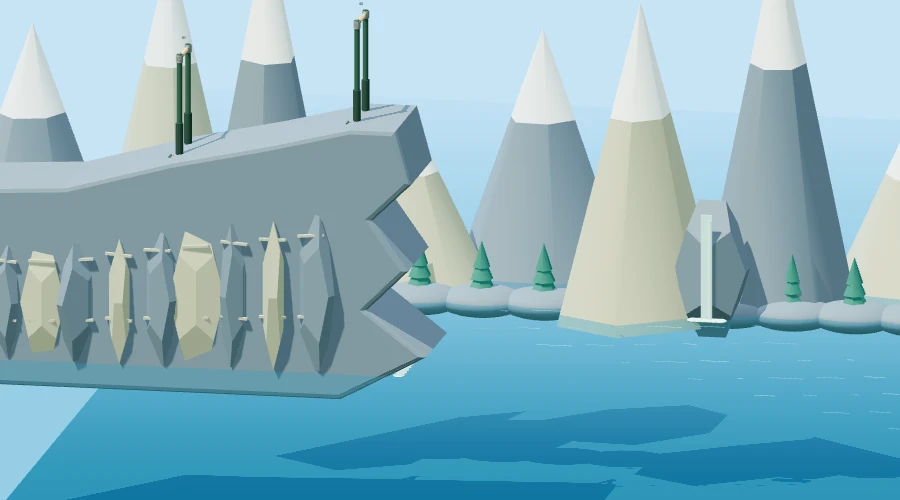
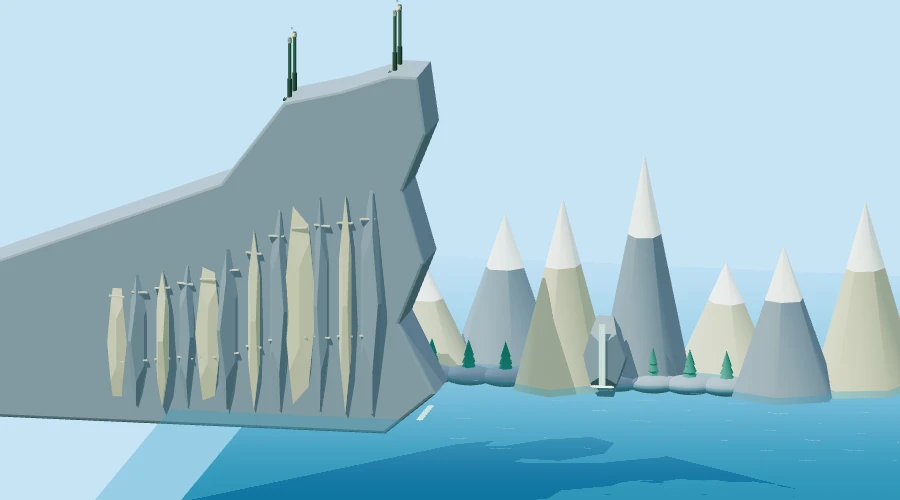
Add foot grab and spring landings with towering cliff courses and wider cameras

diff --git a/physics.js b/physics.js
@@ -2,10 +2,10 @@
 const KAARI_MAPS = [
   {id:'garden',name:'Park Practice',description:'Easy · 5 bars · find your rhythm',points:[[180,220],[380,210],[590,225],[810,195],[1040,210]],landing:240,colors:['#e7ecdf','#dbe3d2','#dee6d4','#d1ddc6','#809273']},
   {id:'coast',mode:'dive',shore:490,terrain:[[-900,70],[0,90],[180,120],[420,155],[490,155]],name:'Turquoise Bay',description:'Water jump · 2 bars · trick and splash',points:[[180,80],[420,65]],landing:1100,colors:['#e2edf0','#d1e0e4','#c8dde2','#c2d5d4','#6d919d']},
-  {id:'sunset',mode:'dive',shore:540,terrain:[[-900,180],[0,205],[180,230],[330,275],[465,290],[540,290]],name:'Golden Cliffs',description:'Water jump · 2 bars · trick and splash',points:[[180,60],[465,40]],landing:1100,colors:['#f2e7df','#e8d7ca','#e5cdb9','#d9c4ae','#ab836e']},
+  {id:'sunset',mode:'dive',shore:540,terrain:[[-900,260],[0,430],[180,580],[330,615],[465,650],[540,650]],name:'Golden Cliffs',description:'Water jump · 2 bars · trick and splash',points:[[180,60],[465,40]],landing:1600,colors:['#f2e7df','#e8d7ca','#e5cdb9','#d9c4ae','#ab836e']},
   {id:'city',name:'Rooftop Run',description:'Medium · 7 bars · above the skyline',points:[[180,210],[410,190],[655,215],[915,180],[1190,205],[1450,185],[1715,210]],landing:280,colors:['#aaa9db','#c4bfe5','#8298ba','#87819d','#535774']},
   {id:'harbor',mode:'dive',shore:525,terrain:[[-900,50],[0,65],[180,95],[310,70],[450,120],[525,120]],name:'Island Hopping',description:'Water jump · 2 bars · trick and splash',points:[[180,80],[450,95]],landing:1100,colors:['#a9d6de','#c8e5e5','#6c9baa','#93aeb2','#536d79']},
-  {id:'alpine',mode:'dive',shore:550,terrain:[[-900,240],[0,290],[180,340],[340,375],[480,410],[550,410]],name:'Alpine Lake',description:'Water jump · 2 bars · trick and splash',points:[[180,50],[480,35]],landing:1100,colors:['#c7e3f6','#e1edf6','#b8d3e3','#e6edf0','#8195ac']}
+  {id:'alpine',mode:'dive',shore:550,terrain:[[-900,300],[0,650],[180,890],[340,930],[480,980],[550,980]],name:'Alpine Lake',description:'Water jump · 2 bars · trick and splash',points:[[180,50],[480,35]],landing:1900,colors:['#c7e3f6','#e1edf6','#b8d3e3','#e6edf0','#8195ac']}
 ];
 const K_TAU=Math.PI*2,K_G=720,K_FLOOR=475;
 const clamp=(n,min,max)=>Math.max(min,Math.min(max,n));
@@ -27,7 +27,7 @@ class GymnastRagdoll {
     this.joints={};this.reset(p);
   }
   pose(p,bar=null){
-    const t=p.tuck,s=Math.sin(p.angle),c=Math.cos(p.angle);
+    const t=Math.max(p.tuck,p.landingCompression||0),s=Math.sin(p.angle),c=Math.cos(p.angle);
     // Both thighs flex toward the chest in body space. The shins fold back
     // toward the hips; neither leg mirrors to the other side of the body.
     const special=!bar?p.specialPose:null;
@@ -43,6 +43,17 @@ class GymnastRagdoll {
     const side=bar?(dy<=0?1:-1):-1;
     const elbow=[dx/2-dy/d*bend*side,-21+dy/2+dx/d*bend*side];
     const local={hip:[0,4],chest:[0,-21],head:[0,-38],elbowL:elbow,elbowR:[...elbow],handL:hand,handR:[...hand],kneeL:knee,kneeR:[...knee],footL:foot,footR:[...foot]};
+    if(special==='grab'){
+      local.kneeR=[24,-3];local.footR=[4,12];local.handR=[4,12];
+      const dx=4,dy=33,d=Math.hypot(dx,dy),bend=Math.sqrt(23*23-d*d/4);
+      local.elbowR=[dx/2+dy/d*bend,-21+dy/2-dx/d*bend];
+      local.handL=[-30,-30];local.elbowL=[-18,-37];
+    }
+    if(p.onGround){
+      // Reach forward to counter the hip moving back during impact compression.
+      local.handL=[-26,-24];local.elbowL=[-18,-35];
+      local.handR=[30,-23];local.elbowR=[20,-33];
+    }
     if(special==='star'){
       local.handL=[-39,-40];local.elbowL=[-20,-32];local.elbowR=[20,-32];
       local.kneeL=[-15,24];local.kneeR=[15,24];local.footL=[-30,44];local.footR=[30,44];
@@ -85,7 +96,7 @@ class GymnastRagdoll {
         for(const id of ['elbowL','elbowR','handL','handR']){const q=this.joints[id];q.x+=(target[id].x-q.x)*.22;q.y+=(target[id].y-q.y)*.22;}
         // The arms share one bend in the movement plane; depth separates them
         // visually. Do not constrain the free ragdoll after a fall.
-        if(p.specialPose!=='star'||bar)for(const name of ['elbow','hand']){const a=this.joints[name+'L'],b=this.joints[name+'R'];a.x=b.x=(a.x+b.x)/2;a.y=b.y=(a.y+b.y)/2;}
+        if((!['star','grab'].includes(p.specialPose)&&!p.onGround)||bar)for(const name of ['elbow','hand']){const a=this.joints[name+'L'],b=this.joints[name+'R'];a.x=b.x=(a.x+b.x)/2;a.y=b.y=(a.y+b.y)/2;}
         if(bar)for(const id of ['handL','handR']){this.joints[id].x=bar.x;this.joints[id].y=bar.y;}
       }
       for(const q of Object.values(this.joints))if(q.y>floor-4){q.y=floor-4;q.px=q.x-(q.x-q.px)*.7;q.py=q.y;}
@@ -103,11 +114,18 @@ class KaariPhysics {
     const b=this.bars[0],angle=-.85;
     this.player={x:b.x+Math.sin(angle)*76,y:b.y+Math.cos(angle)*76,vx:0,vy:0,angle,omega:0,radius:76,tuck:0,bar:0,cooldown:0,momentum:0,twist:0,twistSpeed:0};
     this.ragdoll=new GymnastRagdoll(this.player);this.visited=new Set([0]);this.score=0;this.chain=0;this.maxChain=0;this.flightPoints=0;this.airRotation=0;this.turns=0;this.twistTurns=0;this.comboAwarded=false;this.events=[];this.ended=false;this.success=false;this.active=false;this.elapsedAfterEnd=0;this.crash=null;
-    this.grounded=false;this.groundCharge=0;this.groundHeld=false;this.specialTime=0;this.specialAwarded=false;this.airTime=0;this.layoutRotation=0;this.layoutAwarded=false;this.rewardClaimed=false;this.deathDiveUnlocked=false;this.diveTime=0;this.diveAwarded=false;this.sinceDive=99;this.bombActive=false;
+    this.grabTime=0;this.grabAwarded=false;this.landingVelocity=0;this.grounded=false;this.groundCharge=0;this.groundHeld=false;this.specialTime=0;this.specialAwarded=false;this.airTime=0;this.layoutRotation=0;this.layoutAwarded=false;this.rewardClaimed=false;this.deathDiveUnlocked=false;this.diveTime=0;this.diveAwarded=false;this.sinceDive=99;this.bombActive=false;
   }
   beginFlight(){
+    this.grabTime=0;this.grabAwarded=false;this.player.onGround=false;this.player.landingCompression=0;
     this.flightPoints=0;this.airRotation=0;this.turns=0;this.twistTurns=0;this.comboAwarded=false;
     this.specialTime=0;this.specialAwarded=false;this.airTime=0;this.layoutRotation=0;this.layoutAwarded=false;this.player.specialPose=null;this.diveTime=0;this.diveAwarded=false;this.sinceDive=99;this.bombActive=false;this.player.twist=0;this.player.twistSpeed=0;
+  }
+  startLanding(){
+    const p=this.player;this.grounded=true;this.groundCharge=0;this.groundHeld=false;
+    this.landingVelocity=clamp(Math.abs(p.vy)/180,1,6);p.landingCompression=.04;p.onGround=true;
+    p.specialPose=null;p.twist=0;p.twistSpeed=0;p.momentum=0;p.tuck=0;p.vx=clamp(p.vx*.3,-95,95);
+    p.angle=clamp(Math.atan2(Math.sin(p.angle),Math.cos(p.angle)),-.5,.5);p.omega=clamp(p.omega,-2,2);p.vy=0;
   }
   stepGround(dt,input){
     const p=this.player,surface=this.groundY(p.x);
@@ -118,11 +136,14 @@ class KaariPhysics {
       if(quick){
         this.grounded=false;this.beginFlight();p.angle=0;p.momentum=0;p.vy=-530*this.character.bounce;p.cooldown=.12;
         const target=this.bars.find((_,i)=>!this.visited.has(i))||{x:this.mat.x+80,y:surface-65};
-        p.vx=clamp((target.x-p.x)/.9,-240,240);p.y-=5;
+        p.vx=clamp((target.x-p.x)/.9,-240,240);p.y=surface-10-this.ragdoll.pose({...p,y:0}).footR.y;this.ragdoll.reset(p);
         this.events.push({type:'bounce',label:'BOUNCE!',x:p.x,y:p.y});return;
       }
     }
-    p.angle=0;p.omega=0;p.vx=0;p.vy=0;p.specialPose=null;
+    this.landingVelocity+=(-70*(p.landingCompression||0)-12*this.landingVelocity)*dt;
+    p.landingCompression=clamp((p.landingCompression||0)+this.landingVelocity*dt,0,.7);
+    p.omega+=(-42*p.angle-10*p.omega)*dt;p.angle+=p.omega*dt;
+    p.x+=p.vx*dt;p.vx*=Math.exp(-9*dt);p.vy=0;p.specialPose=null;p.onGround=true;
     const footY=this.ragdoll.pose({...p,y:0}).footR.y;p.y=surface-5-footY;
     this.ragdoll.step(dt,p,null,surface);
   }
@@ -157,7 +178,7 @@ class KaariPhysics {
       const strength=clamp((.45+impactSpeed/700)*Math.sqrt(mass/75)*(bombEntry?1.25:1),.45,2.8);
       this.splash={x:p.x,clean,duration:2.6,impactSpeed,mass,strength,kind:bombEntry?'bomb':diveEntry?'deathdive':'normal',points:success?500+bonus:0};if(success)this.score+=500+bonus;
       p.vy=Math.max(90,p.vy*.65);p.vx*=.5;
-    }else if(success){this.score+=500;this.player.vx=0;this.player.vy=0;this.player.twist=0;this.player.twistSpeed=0;this.player.angle=0;this.player.tuck=0;this.player.y=K_FLOOR-56;this.ragdoll.reset(this.player);}else{
+    }else if(success){this.score+=500;this.startLanding();}else{
       const p=this.player;
       const kind=p.tuck>.55||Math.abs(p.omega)>7?'roll':Math.cos(p.angle)<-.45?'head':Math.sin(p.angle)<-.55?'belly':Math.sin(p.angle)>.55?'back':'sit';
       const captions={head:['HEAD FIRST!','Brain temporarily disconnected.','BONK!'],belly:['BELLY FLOP!','Full marks for surface area.','SPLAT!'],back:['BACK BOUNCE!','Returned to sender.','BOING!'],roll:['SPIN CYCLE!','One more spin, please.','WHIRR!'],sit:['BUTT FIRST!','Found a seat.','THUMP!']};
@@ -175,6 +196,7 @@ class KaariPhysics {
         p.x+=p.vx*dt;p.y+=p.vy*dt;p.angle+=p.momentum*.15*dt;p.momentum*=Math.exp(-3*dt);
         p.tuck*=Math.exp(-1.2*dt);p.specialPose=null;this.ragdoll.reset(p);return;
       }
+      if(this.success&&this.grounded){this.stepGround(dt,{});return;}
       if(this.crash&&!this.crash.kicked&&this.elapsedAfterEnd>.32){this.ragdoll.kick(this.crash.kind,this.crash.direction);this.crash.kicked=true;}
       this.ragdoll.step(dt,p,null,this.groundY(p.x));
       if(this.crash){p.x=this.ragdoll.joints.hip.x;p.y=this.ragdoll.joints.hip.y;p.vx=0;p.vy=0;}
@@ -183,9 +205,10 @@ class KaariPhysics {
     if(!this.active){if(input.grip||input.tuck)this.active=true;else return;}
     const airborne=p.bar<0&&!this.grounded;
     const bomb=airborne&&this.characterId==='bruno'&&!!input.bomb;
+    const grab=airborne&&!!input.grab&&!input.bomb&&!input.dive;
     const dive=airborne&&this.water&&this.deathDiveUnlocked&&!!input.dive&&!bomb;
     this.bombActive=bomb;this.sinceDive=dive?0:this.sinceDive+dt;
-    input={...input,tuck:bomb||(!dive&&!!input.tuck),special:!dive&&(bomb||input.special)};
+    input={...input,tuck:bomb||(!dive&&!!input.tuck),special:!dive&&!grab&&(bomb||input.special)};
     const oldRadius=p.radius;p.tuck+=(Number(!!input.tuck)-p.tuck)*Math.min(1,dt*10);p.radius=76-26*p.tuck;p.cooldown-=dt;
     if(this.grounded){this.stepGround(dt,input);return;}
     if(p.bar>=0){
@@ -223,7 +246,7 @@ class KaariPhysics {
       if(this.turns>0&&this.twistTurns>0&&!this.comboAwarded){this.comboAwarded=true;this.flightPoints+=150;this.score+=150;this.events.push({type:'combo',label:`${this.airRotation>0?'BACKFLIP':'FRONTFLIP'} ${this.twistTurns*360}°`,x:p.x,y:p.y-25});}
       this.airTime+=dt;
       const ability=this.character,canPose=input.special&&(ability.special==='cannon'?p.tuck>.65:ability.special==='corkscrew'||p.tuck<.35);
-      p.specialPose=dive?'deathdive':canPose?ability.special:null;
+      p.specialPose=grab?'grab':dive?'deathdive':canPose?ability.special:null;
       const clearOfGround=p.y<(overGround?groundSurface:K_FLOOR)-95;
       this.specialTime=canPose&&clearOfGround?this.specialTime+dt:0;
       const ready=ability.special==='corkscrew'?this.turns>0&&this.twistTurns>0&&!!twistInput:this.specialTime>=.4;
@@ -231,6 +254,8 @@ class KaariPhysics {
         this.specialAwarded=true;this.score+=ability.specialPoints;this.flightPoints+=ability.specialPoints;
         this.events.push({type:'special',label:ability.ability.toUpperCase(),points:ability.specialPoints,x:p.x,y:p.y});
       }
+      this.grabTime=grab&&clearOfGround?this.grabTime+dt:0;
+      if(this.grabTime>=.35&&!this.grabAwarded){this.grabAwarded=true;this.score+=150;this.flightPoints+=150;this.events.push({type:'special',label:'GRAB',points:150,x:p.x,y:p.y});}
       this.diveTime=dive&&clearOfGround?this.diveTime+dt:0;
       if(this.diveTime>=.35&&!this.diveAwarded){this.diveAwarded=true;this.score+=250;this.flightPoints+=250;this.events.push({type:'special',label:'DEATH DIVE',points:250,x:p.x,y:p.y});}
       if(input.grip&&p.cooldown<=0){
@@ -245,7 +270,7 @@ class KaariPhysics {
         }
       }
     }
-    const surface=this.water&&p.x<this.mat.x?this.cliffY:K_FLOOR;
+    const surface=this.groundY(p.x);
     this.ragdoll.step(dt,p,p.bar>=0?this.bars[p.bar]:null,surface);
     if(p.bar<0){
       const joints=this.ragdoll.joints,touching=Object.entries(joints).filter(([,q])=>q.y>=surface-4.1);
@@ -257,11 +282,10 @@ class KaariPhysics {
         const feetFirst=touching.every(([id])=>id.startsWith('foot')||id.startsWith('knee'))&&Math.cos(p.angle)>.25&&Math.abs(p.omega)<12&&p.tuck<.8;
         if(feetFirst&&onMat&&this.visited.size===this.bars.length)this.finish(true);
         else if(feetFirst){
-          this.settleCombo(false);this.grounded=true;this.groundCharge=0;this.groundHeld=false;p.specialPose=null;p.twist=0;p.twistSpeed=0;p.angle=0;p.tuck=0;p.y=surface-56;
-          this.ragdoll.reset(p);this.events.push({type:'ground',label:'TUCK → RELEASE',x:p.x,y:p.y});
+          this.settleCombo(false);this.startLanding();this.events.push({type:'ground',label:'TUCK → RELEASE',x:p.x,y:p.y});
         }else this.finish(false);
       }
-      if(p.y>K_FLOOR+80||p.y<-1200||p.x<-180||p.x>this.mat.x+this.mat.w+200)this.finish(false);
+      if(p.y>K_FLOOR+80||p.y<-2200||p.x<-180||p.x>this.mat.x+this.mat.w+200)this.finish(false);
     }
   }
 }

diff --git a/index.html b/index.html
@@ -20,7 +20,7 @@
       <button id="play" class="primary">PLAY <span>↗</span></button>
       <button id="guide-open" class="guide-button">TRICK BOOK</button>
       <button id="help-toggle" class="text-button" aria-expanded="false">How to play <span>＋</span></button>
-      <div id="help" hidden><div class="keyboard-help"><p><kbd>SPACE</kbd> Hold to grip · release to jump</p><p><kbd>↓ / S</kbd> Hold to tuck · release to straighten</p><p><kbd>← / →</kbd> Twist in the air (also A / D)</p><p><kbd>E</kbd> Signature trick <kbd>B</kbd> Bruno bomb <kbd>F</kbd> Death dive (unlock in chapter 2)</p><p><kbd>ESC</kbd> Pause <kbd>R</kbd> Retry</p></div><div class="touch-help"><p><b>Right thumb: GRIP</b><br>Hold to catch a bar. Release to jump.</p><p><b>Left thumb: TUCK</b><br>Hold to curl up. Release to straighten.</p><p><b>↶ / ↷</b> Hold to twist in the air. Combine with a flip!</p><p><b>TRICK</b> Hold your signature trick. Check your character's instructions.</p><p>Use several buttons together. Landscape works too.</p></div><p>Water jumps: visit both bars, trick, then land in the water. A straight entry adds 200 points.</p><p>Trick + new bar = COMBO! Chain trick jumps for up to ×6 points. A plain jump or an old bar breaks the chain.</p><p>Tuck at the bottom of the swing; extend near the top.</p><p>Land on your feet to recover: tap TUCK for less than 0.6 s, then release to bounce. Hold GRIP to catch the next bar.</p><p>Finish the course and meet its score target to unlock the next chapter. Coins and purchases are saved in this browser.</p></div>
+      <div id="help" hidden><div class="keyboard-help"><p><kbd>SPACE</kbd> Hold to grip · release to jump</p><p><kbd>↓ / S</kbd> Hold to tuck · release to straighten</p><p><kbd>← / →</kbd> Twist in the air (also A / D)</p><p><kbd>↑</kbd> Grab one foot <kbd>E</kbd> Signature trick <kbd>B</kbd> Bruno bomb <kbd>F</kbd> Death dive (unlock in chapter 2)</p><p><kbd>ESC</kbd> Pause <kbd>R</kbd> Retry</p></div><div class="touch-help"><p><b>Right thumb: GRIP</b><br>Hold to catch a bar. Release to jump.</p><p><b>Left thumb: TUCK</b><br>Hold to curl up. Release to straighten.</p><p><b>↶ / ↷</b> Hold to twist in the air. Combine with a flip!</p><p><b>TRICK</b> Hold your signature trick. Check your character's instructions.</p><p>Use several buttons together. Landscape works too.</p></div><p>Water jumps: visit both bars, trick, then land in the water. A straight entry adds 200 points.</p><p>Trick + new bar = COMBO! Chain trick jumps for up to ×6 points. A plain jump or an old bar breaks the chain.</p><p>Tuck at the bottom of the swing; extend near the top.</p><p>Land on your feet to recover: tap TUCK for less than 0.6 s, then release to bounce. Hold GRIP to catch the next bar.</p><p>Finish the course and meet its score target to unlock the next chapter. Coins and purchases are saved in this browser.</p></div>
     </div>
     <div class="map-picker"><div class="map-heading"><span>STORY <span id="map-counter">01 / 06</span></span><span id="menu-best">BEST 0</span></div>
       <div class="chapter-brief"><strong id="chapter-title"></strong><span id="chapter-goal"></span><p id="chapter-story"></p></div>
@@ -32,7 +32,7 @@
 
   </section>
   <div id="hud" hidden><div class="hud-score"><strong id="score">0</strong><span id="progress">1 / 5</span><small id="hud-goal"></small></div><div class="hud-actions"><button id="restart" class="icon" aria-label="Retry" title="Retry (R)">↻</button><button id="pause-button" class="icon" aria-label="Pause" title="Pause (Esc)">Ⅱ</button></div><div id="start-hint"><kbd>SPACE</kbd> grip <span>·</span> <kbd>↓</kbd> tuck</div></div>
-  <div class="touch" id="touch" hidden aria-label="Touch controls"><button data-key="ArrowDown" aria-label="Hold to tuck, release to straighten" aria-pressed="false"><span class="control-symbol" aria-hidden="true">↓</span><strong>TUCK</strong><small>Release: straighten</small></button><div class="twist-controls"><button data-key="ArrowLeft" aria-label="Twist left in the air" aria-pressed="false">↶</button><button data-key="ArrowRight" aria-label="Twist right in the air" aria-pressed="false">↷</button><small>TWIST</small><button data-key="KeyB" class="bomb-control" aria-label="Hold cannonball bomb" aria-pressed="false" hidden>BOMB</button><button data-key="KeyF" class="dive-control" aria-label="Hold death dive" aria-pressed="false" hidden>DIVE</button><button data-key="KeyE" class="special-control" aria-label="Hold your signature trick" aria-pressed="false">TRICK</button></div><button data-key="Space" aria-label="Hold to grip, release to jump" aria-pressed="false"><span class="control-symbol" aria-hidden="true">✊</span><strong>GRIP</strong><small>Release: jump</small></button></div>
+  <div class="touch" id="touch" hidden aria-label="Touch controls"><button data-key="ArrowDown" aria-label="Hold to tuck, release to straighten" aria-pressed="false"><span class="control-symbol" aria-hidden="true">↓</span><strong>TUCK</strong><small>Release: straighten</small></button><div class="twist-controls"><button data-key="ArrowLeft" aria-label="Twist left in the air" aria-pressed="false">↶</button><button data-key="ArrowRight" aria-label="Twist right in the air" aria-pressed="false">↷</button><small>TWIST</small><button data-key="KeyB" class="bomb-control" aria-label="Hold cannonball bomb" aria-pressed="false" hidden>BOMB</button><button data-key="KeyF" class="dive-control" aria-label="Hold death dive" aria-pressed="false" hidden>DIVE</button><button data-key="ArrowUp" class="grab-control" aria-label="Hold to grab one foot" aria-pressed="false">GRAB</button><button data-key="KeyE" class="special-control" aria-label="Hold your signature trick" aria-pressed="false">TRICK</button></div><button data-key="Space" aria-label="Hold to grip, release to jump" aria-pressed="false"><span class="control-symbol" aria-hidden="true">✊</span><strong>GRIP</strong><small>Release: jump</small></button></div>
   <section id="pause" class="dialog-screen" hidden><div class="dialog"><span class="pill">TAKE A BREATHER</span><h2>PAUSED.</h2><button id="resume" class="primary">RESUME <span>→</span></button><button id="pause-restart" class="secondary">Retry</button><button class="text-button" data-menu>Main menu</button></div></section>
   <section id="result" class="dialog-screen" hidden><div class="dialog"><span class="pill" id="result-label"></span><h2 id="result-title"></h2><div class="result-points" id="result-score"></div><p id="result-copy"></p><div id="result-reward"></div><p id="result-unlock"></p><button id="next-chapter" class="primary" hidden>NEXT CHAPTER →</button><button id="again" class="primary">TRY AGAIN <span>↗</span></button><button class="text-button" data-menu>Main menu</button></div></section>
 <section id="guide" class="guide-screen" hidden aria-label="Trick book"><div class="guide-shell"><header><div><small id="guide-kicker">FIELD NOTES</small><h2 id="guide-title">Trick book</h2></div><button id="guide-close" class="icon" aria-label="Close trick book">×</button></header><div class="guide-layout"><nav id="trick-list" aria-label="Tricks"></nav><article class="trick-page"><div class="trick-top"><span id="trick-state"></span><span id="trick-points"></span></div><h3 id="trick-name"></h3><p id="trick-owners"></p><canvas id="trick-demo" width="520" height="230" aria-label="Animated trick example"></canvas><div id="demo-cue" aria-live="off"></div><div id="trick-keys"></div><p id="trick-how"></p><p id="trick-unlock"></p><div class="guide-actions"><button id="demo-replay" class="secondary">REPLAY EXAMPLE</button><button id="tutorial-next" class="primary" hidden>GOT IT →</button></div></article></div></div></section>

diff --git a/game.js b/game.js
@@ -40,23 +40,27 @@ function readBest(){best=campaign.data.records[game.mapIndex]?.best||0;}
 function baseSpan(){return touchMode?(height>width?460:360):480;}
 function floorMargin(span){return touchMode?(height>width?155:115)*span/height:70;}
 function followMobilePlayer(dt=0,snap=false){
-  const p=game.player,span=baseSpan(),view=width/height*span;
+  const p=game.player;
+  const highCliff=game.water&&terrainHeight(game.map,game.mat.x)>400&&!game.splash;
+  const altitude=Math.max(0,K_FLOOR-p.y);
+  const desiredSpan=highCliff?Math.max(baseSpan(),(altitude+180)/(1-Math.min(.34,155/height))):baseSpan();
+  const span=snap?desiredSpan:cameraSpan+(desiredSpan-cameraSpan)*(1-Math.exp(-5*dt)),view=width/height*span;
   const flying=p.bar<0&&!game.ended;
   const leadX=flying?clamp(p.vx*.035,-12,12):0;
   const leadY=flying?clamp(-p.vy*.025,-12,12):0;
   // Keep the body near the centre of the usable view, above the thumb controls.
-  // Unlike the desktop camera, do not zoom out to include the floor or map edges.
-  const targetX=p.x+leadX-view/2,targetY=K_FLOOR-p.y+leadY-span*.065;
+  // Tall cliffs widen the view to show both the launch point and the water.
+  const targetX=(highCliff?(p.x+Math.max(p.x,game.mat.x+75))/2:p.x+leadX)-view/2,targetY=highCliff?span/2-155*span/height:K_FLOOR-p.y+leadY-span*.065;
   const blend=snap?1:1-Math.exp(-16*dt);
   cameraSpan=span;camera+=(targetX-camera)*blend;cameraY+=(targetY-cameraY)*blend;
   // Bound tracking lag on fast launches, even on a narrow portrait screen.
-  camera=clamp(camera,p.x-view*.59,p.x-view*.41);
-  cameraY=clamp(cameraY,K_FLOOR-p.y-span*.14,K_FLOOR-p.y+span*.015);
+  if(!highCliff)camera=clamp(camera,p.x-view*.59,p.x-view*.41);
+  if(!highCliff)cameraY=clamp(cameraY,K_FLOOR-p.y-span*.14,K_FLOOR-p.y+span*.015);
 }
 function resize(){const r=canvas.getBoundingClientRect();width=r.width;height=r.height;scale=height/480;graphics.resize();if(touchMode&&screen!=='menu')followMobilePlayer(0,true);}
 new ResizeObserver(resize).observe(canvas);
 function held(code){return keys.has(code)||touchKeys.has(code);}
-function controls(){return{bomb:held('KeyB')&&game.characterId==='bruno',dive:held('KeyF')&&campaign.trickUnlocked('deathdive'),special:held('KeyE'),grip:held('Space'),tuck:held('ArrowDown')||held('KeyS'),twist:Number(held('ArrowRight')||held('KeyD'))-Number(held('ArrowLeft')||held('KeyA'))};}
+function controls(){return{grab:held('ArrowUp'),bomb:held('KeyB')&&game.characterId==='bruno',dive:held('KeyF')&&campaign.trickUnlocked('deathdive'),special:held('KeyE'),grip:held('Space'),tuck:held('ArrowDown')||held('KeyS'),twist:Number(held('ArrowRight')||held('KeyD'))-Number(held('ArrowLeft')||held('KeyA'))};}
 function clearInput(){if(game.grounded){game.groundHeld=false;game.groundCharge=0;}keys.clear();touchKeys.clear();touchPointers.clear();document.querySelectorAll('[data-key]').forEach(b=>{b.classList.remove('pressed');b.setAttribute('aria-pressed','false');});}
 function setScreen(next){
   screen=next;document.body.dataset.screen=next;clearInput();

diff --git a/physics.test.js b/physics.test.js
@@ -275,3 +275,19 @@ test('water impact scales with speed and mass and preserves visible underwater m
  assert.ok(high.splash.strength>low.splash.strength);assert.ok(heavy.splash.strength>high.splash.strength);assert.ok(light.splash.strength<high.splash.strength);
  for(const g of [low,high,heavy,light]){const y=g.player.y,score=g.score;for(let i=0;i<240;i++)g.step(dt,{bomb:true,twist:1});assert.ok(g.player.y>y);assert.ok(g.player.y>K_FLOOR);assert.ok(g.player.y<K_FLOOR+250);assert.equal(g.score,score);for(const j of Object.values(g.ragdoll.joints))assert.ok(Number.isFinite(j.x+j.y));g.reset();assert.equal(g.splash,null);}
 });
+
+test('grab holds one foot, keeps the other hand free, and awards once per flight',()=>{
+ const g=new KaariPhysics();g.active=true;Object.assign(g.player,{bar:-1,x:600,y:-400,vx:0,vy:-100,angle:0,momentum:0});g.ragdoll.reset(g.player);
+ for(let i=0;i<65;i++)g.step(dt,{grab:true});assert.equal(g.grabAwarded,true);assert.equal(g.player.specialPose,'grab');
+ const j=g.ragdoll.joints;assert.ok(Math.hypot(j.handR.x-j.footR.x,j.handR.y-j.footR.y)<12);assert.ok(Math.hypot(j.handL.x-j.footR.x,j.handL.y-j.footR.y)>25);
+ assert.equal(g.events.filter(e=>e.label==='GRAB').length,1);g.step(dt,{});assert.equal(g.player.specialPose,null);
+ g.reset();g.active=true;for(let i=0;i<60;i++)g.step(dt,{grip:true,grab:true});assert.equal(g.grabAwarded,false);assert.equal(g.score,0);
+});
+test('feet-first impact compresses the knees, settles and preserves recovery bounce',()=>{
+ for(const success of [false,true]){
+ const g=new KaariPhysics();g.active=true;Object.assign(g.player,{bar:-1,x:success?g.mat.x+100:300,y:K_FLOOR-56,vy:650,vx:80,angle:.2,omega:1});g.ragdoll.reset(g.player);
+ if(success){g.visited=new Set(g.bars.map((_,i)=>i));g.finish(true);}else g.startLanding();
+ let peak=0;for(let i=0;i<240;i++){g.step(dt,{});peak=Math.max(peak,g.player.landingCompression);for(const j of Object.values(g.ragdoll.joints))assert.ok(j.y<=K_FLOOR-3.9);}
+ assert.ok(peak>.1);assert.ok(g.player.landingCompression<.01);assert.ok(Math.abs(g.player.angle)<.02);assert.equal(g.crash,null);
+ }
+});

diff --git a/renderer.js b/renderer.js
@@ -197,14 +197,14 @@ class KaariRenderer {
     const points=game.map.terrain.filter(([x])=>x>=-900),shape=new THREE.Shape();
     shape.moveTo(-900,-35);shape.lineTo(edge-90,-35);
     const summit=terrainHeight(game.map,edge);
-    if(alpine){shape.lineTo(edge+45,35);shape.lineTo(edge-55,110);shape.lineTo(edge+15,180);shape.lineTo(edge-45,265);shape.lineTo(edge+22,330);}
-    else if(warm){shape.lineTo(edge-55,45);shape.lineTo(edge-95,135);shape.lineTo(edge-38,225);}
+    if(alpine){shape.lineTo(edge+45,summit*.08);shape.lineTo(edge-55,summit*.28);shape.lineTo(edge+15,summit*.46);shape.lineTo(edge-45,summit*.67);shape.lineTo(edge+22,summit*.84);}
+    else if(warm){shape.lineTo(edge-55,summit*.15);shape.lineTo(edge-95,summit*.46);shape.lineTo(edge-38,summit*.78);}
     else if(islands){shape.lineTo(edge+50,12);shape.lineTo(edge+24,45);shape.lineTo(edge-15,82);}
     else{shape.lineTo(edge+65,8);shape.lineTo(edge+38,50);shape.lineTo(edge+12,95);}
     shape.lineTo(edge,summit);
     for(const [x,h] of [...points].reverse())shape.lineTo(x,h);
     shape.closePath();
-    if(warm){const arch=new THREE.Path();arch.absellipse(280,100,90,75,0,Math.PI*2,true);shape.holes.push(arch);}
+    if(warm){const arch=new THREE.Path();arch.absellipse(280,summit*.34,110,summit*.26,0,Math.PI*2,true);shape.holes.push(arch);}
     const geo=new THREE.ExtrudeGeometry(shape,{depth:180,bevelEnabled:true,bevelSegments:2,steps:1,bevelSize:9,bevelThickness:8});geo.userData.worldOwned=true;
     const land=this.mesh(geo,rock);land.position.z=-90;
     // A sloping lip follows the actual collision surface, not a rectangular cap.

diff --git a/style.css b/style.css
@@ -79,3 +79,5 @@ body[data-touch=true] .touch .twist-controls .bomb-control{left:0}body[data-touc
 @media(max-height:540px) and (orientation:landscape){#menu .guide-button{position:absolute;left:9%;bottom:30px;margin:0;font-size:10px}.guide-screen{padding:8px}.guide-shell header{padding:8px 16px}.guide-shell h2{font-size:20px}.guide-shell .icon{height:32px;width:32px}.trick-page{padding:12px}#trick-demo{max-height:160px}.guide-layout{grid-template-columns:170px 1fr}.is-tutorial .guide-shell{max-width:680px}.is-tutorial .trick-page{display:grid;grid-template-columns:1fr 1fr;gap:5px 16px}.is-tutorial .trick-top,.is-tutorial h3,.is-tutorial #trick-owners{grid-column:1/-1;margin:0}.is-tutorial #trick-demo{grid-column:1;grid-row:4/8}.is-tutorial #demo-cue{grid-column:1;grid-row:8}.is-tutorial #trick-how{font-size:11px;margin:0}.is-tutorial #trick-keys{margin-top:0}.is-tutorial .guide-actions{grid-column:2}.is-tutorial #trick-unlock{margin:0}}
 
 body[data-touch=true] #start-hint{bottom:calc(185px + env(safe-area-inset-bottom))}
+
+body[data-touch=true] .touch .twist-controls .grab-control{position:absolute;bottom:56px;left:0;width:48px;height:44px;font-size:8px}body[data-touch=true] .touch .twist-controls .special-control{left:auto;right:0;width:48px}

diff --git a/campaign.js b/campaign.js
@@ -8,6 +8,7 @@ const JUMPBAR_CHAPTERS=[
   {map:5,title:'6 · The Final Summit',goal:3200,reward:200,story:'The alpine finale. Put everything you have learned together.'}
 ];
 const JUMPBAR_TRICKS=[
+  {id:'grab',name:'Grab',owners:[],points:'150',keys:'GRAB / ↑',how:'Hold UP or GRAB for 0.35 s in the air. Grab one foot and extend your free arm for balance. Release before landing. Scores once per jump.',unlock:'Available to every character from the start.',demo:'grab',tutorial:true},
   {id:'backflip',name:'Backflip',owners:[],points:'250 per turn',keys:'TUCK / ↓',how:'Launch while rotating backwards. Hold TUCK to spin faster; release it to prepare your landing.',unlock:'Available from the start.',demo:'flip'},
   {id:'frontflip',name:'Frontflip',owners:[],points:'250 per turn',keys:'TUCK / ↓',how:'Release on the opposite swing to rotate forwards. Tuck for speed, then open before landing.',unlock:'Available from the start.',demo:'frontflip'},
   {id:'twist',name:'360° twist',owners:[],points:'200 per turn',keys:'↶ / ↷ · A / D',how:'Hold a twist arrow in the air for a full turn. Release to brake. Combine it with a flip for +150.',unlock:'Available from the start.',demo:'twist'},

diff --git a/campaign.test.js b/campaign.test.js
@@ -44,9 +44,9 @@ test('retired characters refund their purchase prices once and preserve chapter 
 });
 
 test('new trick tutorials queue only when unlocked and acknowledgements persist',()=>{
- const c=new JumpbarCampaign();assert.deepEqual(c.pendingTutorials().map(t=>t.id),['candle']);
+ const c=new JumpbarCampaign();assert.deepEqual(c.pendingTutorials().map(t=>t.id),['grab','candle']);
  assert.equal(c.acknowledgeTutorial('deathdive'),false);assert.equal(c.trickUnlocked('cannon'),false);
- c.acknowledgeTutorial('candle');c.claim(result(0,900));c.buy('bruno');
+ c.acknowledgeTutorial('grab');c.acknowledgeTutorial('candle');c.claim(result(0,900));c.buy('bruno');
  assert.deepEqual(c.pendingTutorials().map(t=>t.id),['cannon']);
  c.claim(result(1,12000));assert.equal(c.trickUnlocked('deathdive'),true);
  assert.deepEqual(c.pendingTutorials().map(t=>t.id),['cannon','deathdive']);

diff --git a/guide.js b/guide.js
@@ -52,6 +52,7 @@ function drawGuide(now){
   if(t.demo==='flip'||t.demo==='frontflip'){angle=u*Math.PI*2*(t.demo==='frontflip'?-1:1);tuck=u>.17&&u<.73?1:0;}
   if(t.demo==='layout')angle=u*Math.PI*2;
   if(t.demo==='candle')pose=u>.2?'candle':null;
+  if(t.demo==='grab')pose=u>.2&&u<.8?'grab':null;
   if(t.demo==='pike')pose=u>.2&&u<.8?'pike':null;
   if(t.demo==='cannon'){tuck=u>.2?1:0;angle=.4;pose='cannon';}
   if(t.demo==='deathdive'){angle=u>.8?0:-Math.PI/2;tuck=u>.8?1:0;pose=u>.2&&u<.8?'deathdive':null;}

diff --git a/README.md b/README.md
@@ -149,3 +149,5 @@ Character rendering now uses a single smooth torso profile (including Bruno's
 belly), continuous bending limb surfaces, and textured underwear / shorts.
 There are no separate elbow/knee balls or overlapping belly pieces. Physics
 and existing chapter progress are preserved.
+
+Grab: hold Up / GRAB for 0.35 s to hold one foot for 150 points once per flight. All characters can use it; the first run after this update includes a tutorial. Feet-first landings now absorb impact with a damped knee bend and arm balance, including successful finishes. Golden Cliffs and Alpine Lake have much taller drops; the mobile camera widens to include the water and cliff edge.
